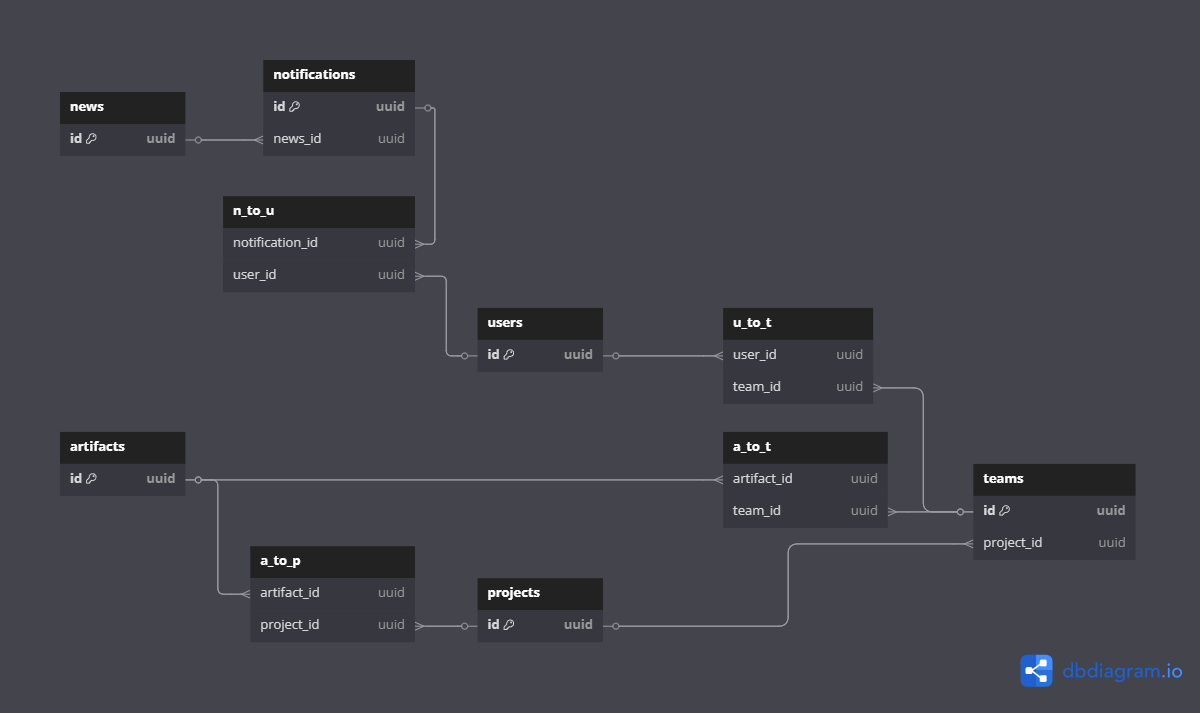
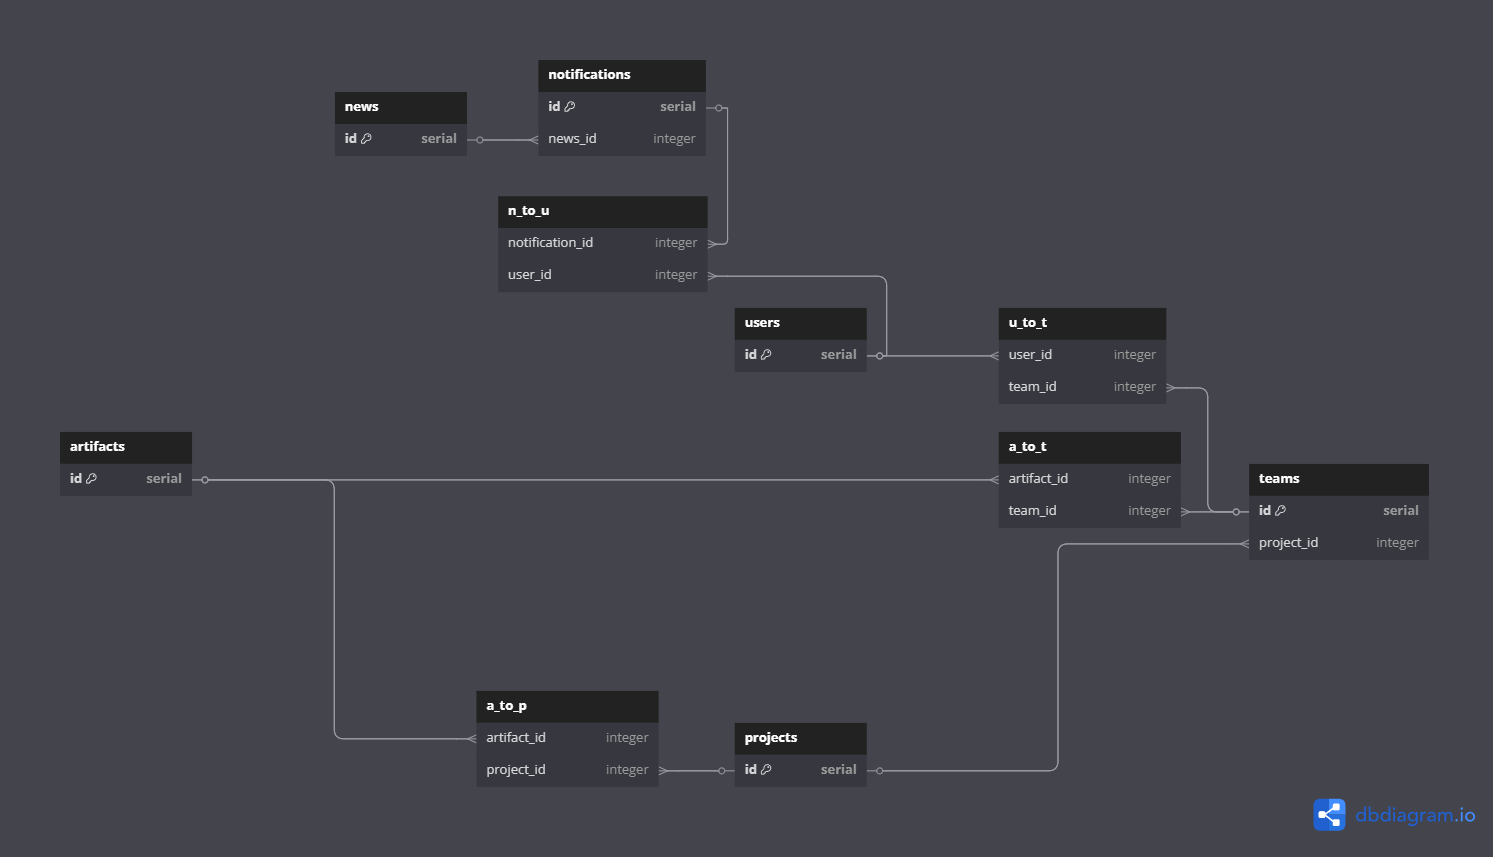
feat: add artifacts related tables

diff --git a/src/models/Schema.ts b/src/models/Schema.ts
@@ -1,4 +1,5 @@
-import { integer, pgTable, serial, timestamp } from 'drizzle-orm/pg-core';
+import type { AnyPgColumn } from 'drizzle-orm/pg-core';
+import { bigint, boolean, integer, pgTable, serial, text, timestamp, varchar } from 'drizzle-orm/pg-core';
 
 // This file defines the structure of your database tables using the Drizzle ORM.
 
@@ -26,15 +27,61 @@ export const usersTable = pgTable('users', {
 
 export const teamsTable = pgTable('teams', {
   id: serial('id').primaryKey(),
-  projectId: serial('project_id').references(() => projectsTable.id),
+  projectId: integer('project_id').references(() => projectsTable.id),
 });
 
 export const projectsTable = pgTable('projects', {
   id: serial('id').primaryKey(),
 });
 
+export const artifactCategoriesTable = pgTable('artifact_categories', {
+  id: serial('id').primaryKey(),
+  slug: varchar('slug', { length: 50 }).unique(),
+  name: varchar('name', { length: 100 }),
+  description: text('description'),
+  icon: varchar('icon', { length: 50 }),
+});
+
 export const artifactsTable = pgTable('artifacts', {
   id: serial('id').primaryKey(),
+  rootArtifactId: integer('root_artifact_id').references((): AnyPgColumn => artifactsTable.id),
+  parentVersionId: integer('parent_version_id').references((): AnyPgColumn => artifactsTable.id),
+
+  title: varchar('title', { length: 255 }).notNull(),
+  description: text('description'),
+  categoryId: integer('category_id').references(() => artifactCategoriesTable.id),
+
+  authorId: integer('author_id').references(() => usersTable.id),
+  fileSize: bigint('file_size', { mode: 'number' }),
+  filePath: varchar('file_path', { length: 500 }),
+
+  dateCreated: timestamp('date_created').defaultNow(),
+  lastUpdated: timestamp('last_updated').defaultNow(),
+
+  downloads: integer('downloads').default(0),
+  views: integer('views').default(0),
+
+  license: varchar('license', { length: 50 }),
+
+  versionNumber: varchar('version_number', { length: 50 }).notNull(),
+  versionType: varchar('version_type', { length: 20 }), // 'original', 'fork', 'update', 'collaborative'
+
+  isCurrent: boolean('is_current').default(false),
+
+  status: varchar('status', { length: 20 }), // 'draft', 'published', 'archived'
+});
+
+export const artifactVersionChangesTable = pgTable('artifact_version_changes', {
+  id: serial('id').primaryKey(),
+  artifactId: integer('artifact_id').references(() => artifactsTable.id),
+  userId: integer('user_id').references(() => usersTable.id),
+
+  changeType: varchar('change_type', { length: 50 }), // 'title', 'description', 'file'
+  oldValue: text('old_value'),
+  newValue: text('new_value'),
+
+  changedAt: timestamp('changed_at').defaultNow(),
+  changeDescription: text('change_description'),
 });
 
 export const newsTable = pgTable('news', {
@@ -43,25 +90,39 @@ export const newsTable = pgTable('news', {
 
 export const notificationsTable = pgTable('notifications', {
   id: serial('id').primaryKey(),
-  newsId: serial('news_id').references(() => newsTable.id),
+  newsId: integer('news_id').references(() => newsTable.id),
 });
 
 export const userToTeamTable = pgTable('u_to_t', {
-  userId: serial('user_id').references(() => usersTable.id),
-  teamId: serial('team_id').references(() => teamsTable.id),
+  userId: integer('user_id').references(() => usersTable.id),
+  teamId: integer('team_id').references(() => teamsTable.id),
 });
 
 export const artifactToProjectTable = pgTable('a_to_p', {
-  artifactId: serial('artifact_id').references(() => artifactsTable.id),
-  projectId: serial('project_id').references(() => projectsTable.id),
+  artifactId: integer('artifact_id').references(() => artifactsTable.id),
+  projectId: integer('project_id').references(() => projectsTable.id),
+  addedAt: timestamp('added_at').defaultNow(),
 });
 
 export const artifactToTeamTable = pgTable('a_to_t', {
-  artifactId: serial('artifact_id').references(() => artifactsTable.id),
-  teamId: serial('team_id').references(() => teamsTable.id),
+  artifactId: integer('artifact_id').references(() => artifactsTable.id),
+  teamId: integer('team_id').references(() => teamsTable.id),
+  addedAt: timestamp('added_at').defaultNow(),
+});
+
+export const artifactTagsTable = pgTable('artifact_tags', {
+  id: serial('id').primaryKey(),
+  name: varchar('name', { length: 50 }).unique(),
+  description: text('description'),
+});
+
+export const artifactToTagTable = pgTable('a_to_tags', {
+  artifactId: integer('artifact_id').references(() => artifactsTable.id),
+  tagId: integer('tag_id').references(() => artifactTagsTable.id),
+  addedAt: timestamp('added_at').defaultNow(),
 });
 
 export const notificationToUserTable = pgTable('n_to_u', {
-  notificationId: serial('notification_id').references(() => notificationsTable.id),
-  userId: serial('user_id').references(() => usersTable.id),
+  notificationId: integer('notification_id').references(() => notificationsTable.id),
+  userId: integer('user_id').references(() => usersTable.id),
 });
